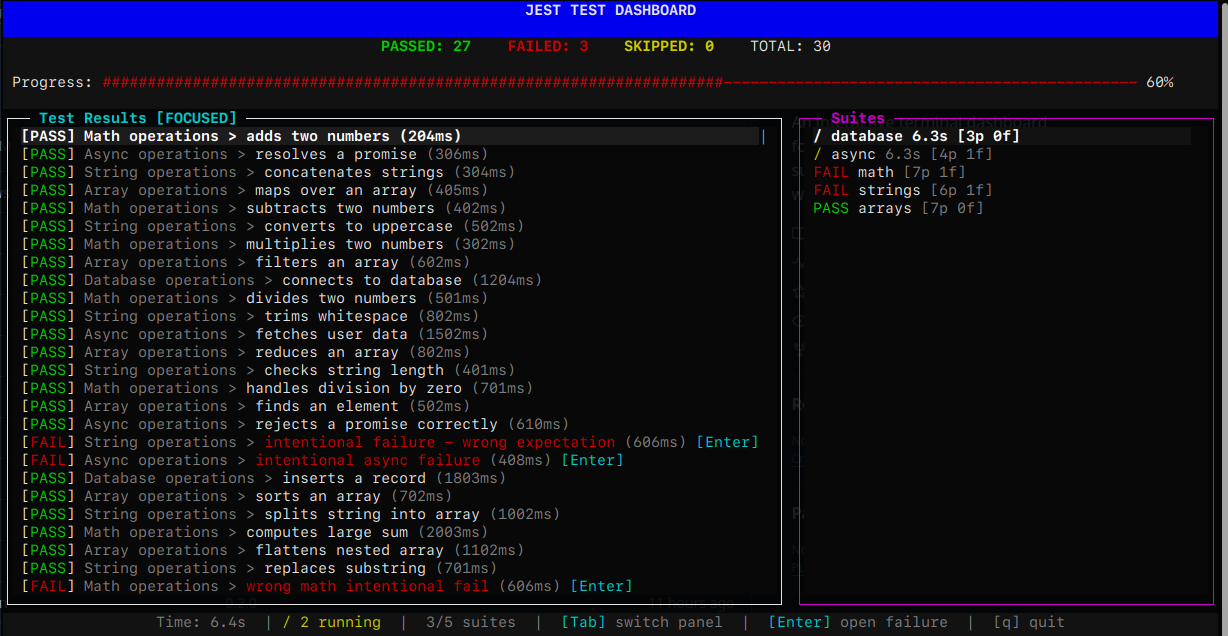
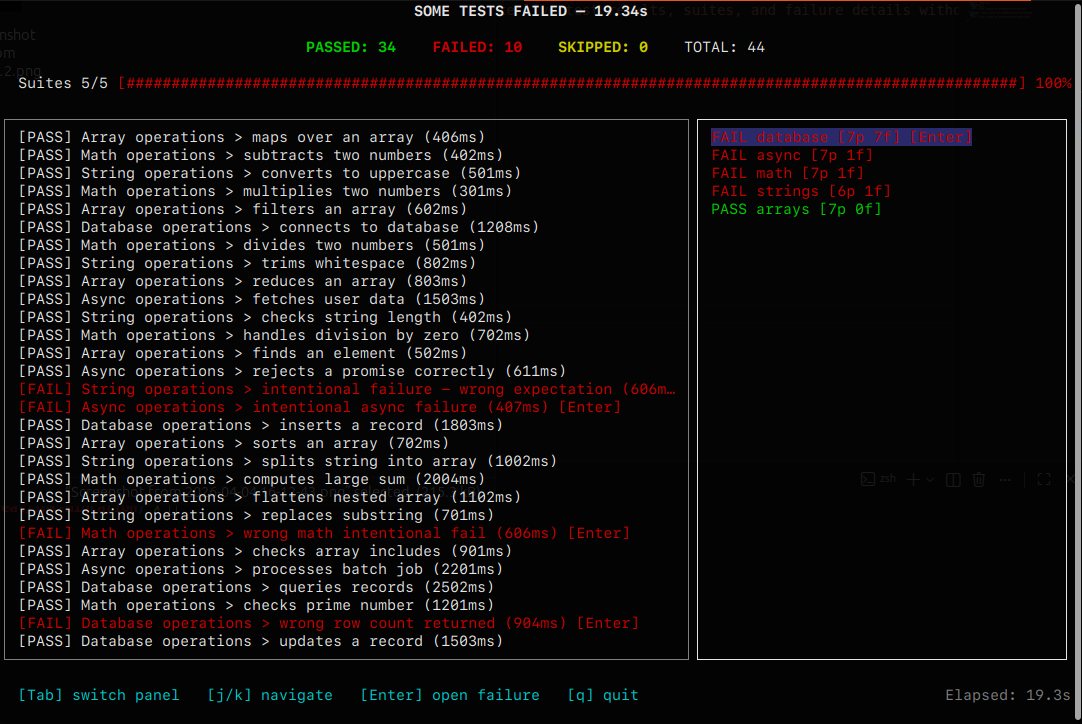
docs: update screenshots to ink UI and fix Node version badge to >=18

Changed region(s): [[0.0, 0.0, 1.0, 1.0], [0.6405, 0.6274, 0.671, 0.6572]]

diff --git a/README.md b/README.md
@@ -4,7 +4,7 @@ An interactive terminal dashboard for Jest — navigate live test results, suite
 
 ![License](https://img.shields.io/badge/license-MIT-blue)
 ![Jest](https://img.shields.io/badge/jest-%3E%3D27-orange)
-![Node](https://img.shields.io/badge/node-%3E%3D16-green)
+![Node](https://img.shields.io/badge/node-%3E%3D18-green)
 
 ## Screenshots
 
@@ -107,7 +107,7 @@ npm test
 
 ## Requirements
 
-- Node >= 16
+- Node >= 18
 - Jest >= 27
 
 ## License
